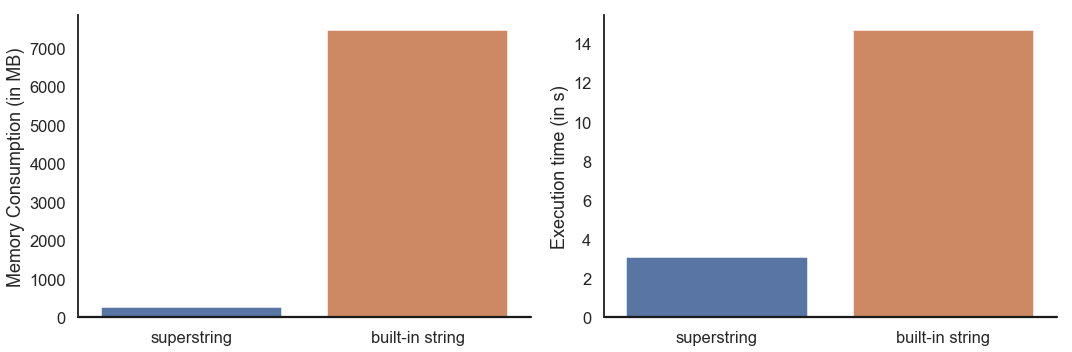
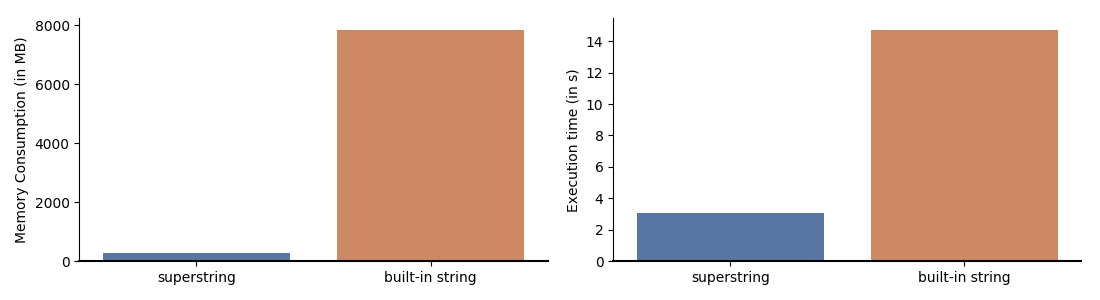
Use a script instead of jupyter notebook to generate comparison plot

Changed region(s): [[0.0308, 0.06, 0.9851, 0.99], [0.0, 0.06, 0.0924, 0.81]]

diff --git a/misc/gen_comp_pic.py b/misc/gen_comp_pic.py
@@ -1,0 +1,27 @@
+import re
+import numpy as np
+import seaborn as sns
+import matplotlib.pyplot as plt
+
+def get_mem_value(file):
+    last_line = ""
+    with open(file, "r") as file:
+        first_line = file.readline()
+        for last_line in file:
+            pass
+    return float(re.findall(r"[0-9]+.[0-9]+ MiB", last_line)[0].replace(" MiB", ""))
+
+f, (ax1, ax2) = plt.subplots(1, 2, figsize=(11, 3), sharex=True)
+
+sns.barplot(x=np.array(["superstring", "built-in string"]), y=np.array([get_mem_value("../profiling/super_string_memory.log"), get_mem_value("../profiling/string_memory.log")]), palette="deep", ax=ax1)
+ax1.axhline(0, color="k", clip_on=False)
+ax1.set_ylabel("Memory Consumption (in MB)")
+
+sns.barplot(x=np.array(["superstring", "built-in string"]), y=np.array([3.087, 14.703]), palette="deep", ax=ax2)
+ax2.axhline(0, color="k", clip_on=False)
+ax2.set_ylabel("Execution time (in s)")
+
+sns.despine(bottom=True)
+plt.tight_layout(h_pad=2)
+
+plt.savefig('comparison.png')
